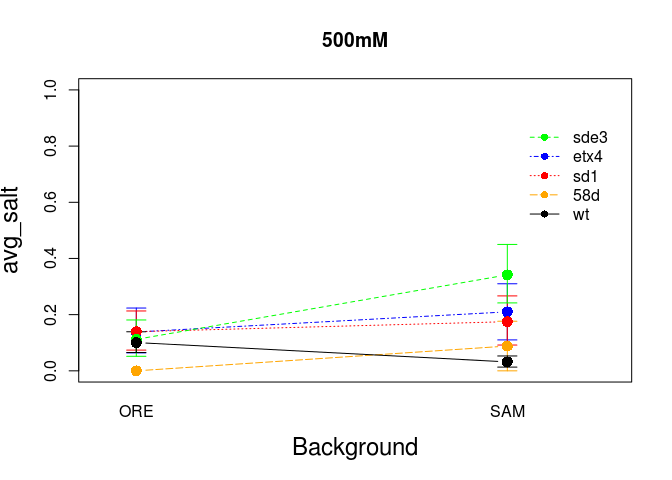
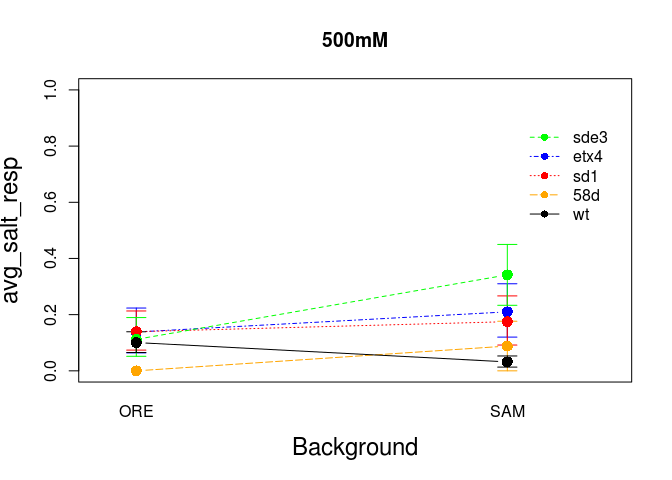
Added plots of tarsal responses to NaCl to my EDA markdown.

diff --git a/PERA_Exploratory_Data_Analysis_MF.md b/PERA_Exploratory_Data_Analysis_MF.md
@@ -133,15 +133,15 @@ CI.avg_h2o.NaCl
     ## 
     ## $sd1
     ##      2.5%     97.5% 
-    ## 0.1313131 0.2020202 
+    ## 0.1329966 0.2037037 
     ## 
     ## $sde3
     ##       2.5%      97.5% 
-    ## 0.08775029 0.14310954 
+    ## 0.08773557 0.14193168 
     ## 
     ## $wt
     ##       2.5%      97.5% 
-    ## 0.05361111 0.08138889
+    ## 0.05361111 0.08055556
 
 ``` r
 #Plot to view interactions between background and allele for water responses in NaCl assay
@@ -170,23 +170,23 @@ CI.avg_h2o.KCl
 
     ## $`58d`
     ##       2.5%      97.5% 
-    ## 0.01937984 0.06201550 
+    ## 0.01550388 0.06201550 
     ## 
     ## $etx4
     ##      2.5%     97.5% 
-    ## 0.1075758 0.1696970 
+    ## 0.1075758 0.1712121 
     ## 
     ## $sd1
     ##      2.5%     97.5% 
-    ## 0.1028369 0.1654846 
+    ## 0.1040189 0.1654846 
     ## 
     ## $sde3
     ##      2.5%     97.5% 
-    ## 0.1205674 0.1867612 
+    ## 0.1193853 0.1867612 
     ## 
     ## $wt
     ##       2.5%      97.5% 
-    ## 0.04381161 0.06389193
+    ## 0.04381161 0.06425703
 
 ``` r
 #Plot to view interactions between background and allele for water responses in KCl assay
@@ -216,24 +216,24 @@ CI.avg_sug.NaCl
 ```
 
     ## $`58d`
-    ##      2.5%     97.5% 
-    ## 0.2583333 0.4500000 
+    ##     2.5%    97.5% 
+    ## 0.258125 0.450000 
     ## 
     ## $etx4
     ##      2.5%     97.5% 
-    ## 0.3392070 0.4471916 
+    ## 0.3370044 0.4471366 
     ## 
     ## $sd1
     ##      2.5%     97.5% 
-    ## 0.5429293 0.6540404 
+    ## 0.5429293 0.6565657 
     ## 
     ## $sde3
     ##      2.5%     97.5% 
-    ## 0.5159011 0.6130742 
+    ## 0.5123675 0.6148410 
     ## 
     ## $wt
     ##      2.5%     97.5% 
-    ## 0.2933333 0.3566667
+    ## 0.2916667 0.3575000
 
 ``` r
 #Plot to view interactions between background and allele for sugar responses in NaCl assay
@@ -262,15 +262,15 @@ CI.avg_sug.KCl
 
     ## $`58d`
     ##      2.5%     97.5% 
-    ## 0.2674419 0.4418605 
+    ## 0.2732558 0.4418605 
     ## 
     ## $etx4
     ##      2.5%     97.5% 
-    ## 0.5727273 0.6818182 
+    ## 0.5727273 0.6795455 
     ## 
     ## $sd1
     ##      2.5%     97.5% 
-    ## 0.4698582 0.5691489 
+    ## 0.4698582 0.5709220 
     ## 
     ## $sde3
     ##      2.5%     97.5% 
@@ -278,7 +278,7 @@ CI.avg_sug.KCl
     ## 
     ## $wt
     ##      2.5%     97.5% 
-    ## 0.2940854 0.3466594
+    ## 0.2929901 0.3461117
 
 ``` r
 #Plot to view interactions between background and allele for sugar responses in KCl assay
@@ -308,20 +308,20 @@ CI.avg_salt.NaCl
 ```
 
     ## $`58d`
-    ##     2.5%    97.5% 
-    ## 0.083125 0.250000 
+    ##      2.5%     97.5% 
+    ## 0.0750000 0.2416667 
     ## 
     ## $etx4
     ##      2.5%     97.5% 
-    ## 0.2180617 0.3149780 
+    ## 0.2202643 0.3171806 
     ## 
     ## $sd1
     ##      2.5%     97.5% 
-    ## 0.3409091 0.4595960 
+    ## 0.3434343 0.4621212 
     ## 
     ## $sde3
     ##      2.5%     97.5% 
-    ## 0.3286219 0.4275618 
+    ## 0.3286219 0.4310954 
     ## 
     ## $wt
     ##      2.5%     97.5% 
@@ -358,19 +358,19 @@ CI.avg_salt.KCl
     ## 
     ## $etx4
     ##      2.5%     97.5% 
-    ## 0.2636364 0.3750000 
+    ## 0.2636364 0.3727273 
     ## 
     ## $sd1
     ##      2.5%     97.5% 
-    ## 0.1187943 0.1914894 
+    ## 0.1170213 0.1914894 
     ## 
     ## $sde3
     ##      2.5%     97.5% 
-    ## 0.2872340 0.3865248 
+    ## 0.2872340 0.3882979 
     ## 
     ## $wt
     ##       2.5%      97.5% 
-    ## 0.04600219 0.07064622
+    ## 0.04654984 0.07064622
 
 ``` r
 #Plot to view interactions between background and allele for salt responses in KCl assay
@@ -399,7 +399,7 @@ NaCl500 <- subset(probos_N, salt_conc == 500)
 
 #plotting salt responses
 lineplot.CI(Background, avg_salt, group = Allele, data = NaCl100, cex = 1.5, xlab = "Background", 
-            ylab = "avg_salt", ylim = c(0, 1), cex.lab = 1.5, 
+            ylab = "avg_salt_resp", ylim = c(0, 1), cex.lab = 1.5, 
             col = c("orange", "blue",  "red", "green", "black"), pch = c(16,16,16,16,16), main = "100mM",
             ci.fun= boot.fn)
 ```
@@ -408,7 +408,7 @@ lineplot.CI(Background, avg_salt, group = Allele, data = NaCl100, cex = 1.5, xla
 
 ``` r
 lineplot.CI(Background, avg_salt, group = Allele, data = NaCl500, cex = 1.5, xlab = "Background", 
-            ylab = "avg_salt", ylim = c(0, 1), cex.lab = 1.5, 
+            ylab = "avg_salt_resp", ylim = c(0, 1), cex.lab = 1.5, 
             col = c("orange", "blue",  "red", "green", "black"), pch = c(16,16,16,16,16), main = "500mM",
             ci.fun= boot.fn)
 ```
@@ -425,7 +425,7 @@ KCl100 <- subset(probos_K, salt_conc == 100)
 KCl500 <- subset(probos_K, salt_conc == 500)
 
 lineplot.CI(Background, avg_salt, group = Allele, data = KCl100, cex = 1.5, xlab = "Background", 
-            ylab = "avg_salt", ylim = c(0, 1), cex.lab = 1.5, 
+            ylab = "avg_salt_resp", ylim = c(0, 1), cex.lab = 1.5, 
             col = c("orange", "blue",  "red", "green", "black"), pch = c(16,16,16,16,16),
             main = "100mM",
             ci.fun= boot.fn)
@@ -435,7 +435,7 @@ lineplot.CI(Background, avg_salt, group = Allele, data = KCl100, cex = 1.5, xlab
 
 ``` r
 lineplot.CI(Background, avg_salt, group = Allele, data = KCl500, cex = 1.5, xlab = "Background", 
-            ylab = "avg_salt", ylim = c(0, 1), cex.lab = 1.5, 
+            ylab = "avg_salt_resp", ylim = c(0, 1), cex.lab = 1.5, 
             col = c("orange", "blue",  "red", "green", "black"), pch = c(16,16,16,16,16),
             main = "500mM",
             ci.fun= boot.fn)
@@ -461,31 +461,31 @@ NaCl_f <- subset(probos_N, Sex == "f")
 
 par(mfrow = c(3,2))
 lineplot.CI(Allele, avg_h2o, group = Background, data = NaCl_m, cex = 1.5, xlab = "Allele", 
-            ylab = "avg_water", ylim = c(0, 1), cex.lab = 1.5, 
+            ylab = "avg_water_resp", ylim = c(0, 1), cex.lab = 1.5, 
             col = c("blue",  "red"), pch = c(16,16,16,16,16),
             main = "Water Response by Males",
             ci.fun= boot.fn)
 
 lineplot.CI(Allele, avg_h2o, group = Background, data = NaCl_f, cex = 1.5, xlab = "Allele", 
-            ylab = "avg_water", ylim = c(0, 1), cex.lab = 1.5, 
+            ylab = "avg_water_resp", ylim = c(0, 1), cex.lab = 1.5, 
             col = c("blue",  "red"), pch = c(16,16,16,16,16),
             main = "Water Response by Females",
             ci.fun= boot.fn)
 
 lineplot.CI(Allele, avg_sugar, group = Background, data = NaCl_m, cex = 1.5, xlab = "Allele", 
-            ylab = "avg_sugar", ylim = c(0, 1), cex.lab = 1.5, 
+            ylab = "avg_sugar_resp", ylim = c(0, 1), cex.lab = 1.5, 
             col = c("blue",  "red"), pch = c(16,16,16,16,16),
             main = "Sugar Response by Males",
             ci.fun= boot.fn)
 
 lineplot.CI(Allele, avg_sugar, group = Background, data = NaCl_f, cex = 1.5, xlab = "Allele", 
-            ylab = "avg_sugar", ylim = c(0, 1), cex.lab = 1.5, 
+            ylab = "avg_sugar_resp", ylim = c(0, 1), cex.lab = 1.5, 
             col = c("blue",  "red"), pch = c(16,16,16,16,16),
             main = "Sugar Response by Females",
             ci.fun= boot.fn)
 
 lineplot.CI(Allele, avg_salt, group = Background, data = NaCl_m, cex = 1.5, xlab = "Allele", 
-            ylab = "avg_nacl", ylim = c(0, 1), cex.lab = 1.5, 
+            ylab = "avg_nacl_resp", ylim = c(0, 1), cex.lab = 1.5, 
             col = c("blue",  "red"), pch = c(16,16,16,16,16),
             main = "NaCl Response by Males",
             ci.fun= boot.fn)
@@ -497,7 +497,7 @@ lineplot.CI(Allele, avg_salt, group = Background, data = NaCl_m, cex = 1.5, xlab
 
 ``` r
 lineplot.CI(Allele, avg_salt, group = Background, data = NaCl_f, cex = 1.5, xlab = "Allele", 
-            ylab = "avg_nacl", ylim = c(0, 1), cex.lab = 1.5, 
+            ylab = "avg_nacl_resp", ylim = c(0, 1), cex.lab = 1.5, 
             col = c("blue",  "red"), pch = c(16,16,16,16,16),
             main = "NaCl Response by Females",
             ci.fun= boot.fn)
@@ -512,13 +512,13 @@ KCl_f <- subset(probos_K, Sex == "f")
 
 par(mfrow = c(3,2))
 lineplot.CI(Allele, avg_h2o, group = Background, data = KCl_m, cex = 1.5, xlab = "Allele", 
-            ylab = "avg_water", ylim = c(0, 1), cex.lab = 1.5, 
+            ylab = "avg_water_resp", ylim = c(0, 1), cex.lab = 1.5, 
             col = c("blue",  "red"), pch = c(16,16,16,16,16),
             main = "Water Response by Males",
             ci.fun= boot.fn)
 
 lineplot.CI(Allele, avg_h2o, group = Background, data = KCl_f, cex = 1.5, xlab = "Allele", 
-            ylab = "avg_water", ylim = c(0, 1), cex.lab = 1.5, 
+            ylab = "avg_water_resp", ylim = c(0, 1), cex.lab = 1.5, 
             col = c("blue",  "red"), pch = c(16,16,16,16,16),
             main = "Water Response by Females",
             ci.fun= boot.fn)
@@ -530,25 +530,25 @@ lineplot.CI(Allele, avg_h2o, group = Background, data = KCl_f, cex = 1.5, xlab =
 
 ``` r
 lineplot.CI(Allele, avg_sugar, group = Background, data = KCl_m, cex = 1.5, xlab = "Allele", 
-            ylab = "avg_sugar", ylim = c(0, 1), cex.lab = 1.5, 
+            ylab = "avg_sugar_resp", ylim = c(0, 1), cex.lab = 1.5, 
             col = c("blue",  "red"), pch = c(16,16,16,16,16),
             main = "Sugar Response by Males",
             ci.fun= boot.fn)
 
 lineplot.CI(Allele, avg_sugar, group = Background, data = KCl_f, cex = 1.5, xlab = "Allele", 
-            ylab = "avg_sugar", ylim = c(0, 1), cex.lab = 1.5, 
+            ylab = "avg_sugar_resp", ylim = c(0, 1), cex.lab = 1.5, 
             col = c("blue",  "red"), pch = c(16,16,16,16,16),
             main = "Sugar Response by Females",
             ci.fun= boot.fn)
 
 lineplot.CI(Allele, avg_salt, group = Background, data = KCl_m, cex = 1.5, xlab = "Allele", 
-            ylab = "avg_kcl", ylim = c(0, 1), cex.lab = 1.5, 
+            ylab = "avg_kcl_resp", ylim = c(0, 1), cex.lab = 1.5, 
             col = c("blue",  "red"), pch = c(16,16,16,16,16),
             main = "KCl Response by Males",
             ci.fun= boot.fn)
 
 lineplot.CI(Allele, avg_salt, group = Background, data = KCl_f, cex = 1.5, xlab = "Allele", 
-            ylab = "avg_kcl", ylim = c(0, 1), cex.lab = 1.5, 
+            ylab = "avg_kcl_resp", ylim = c(0, 1), cex.lab = 1.5, 
             col = c("blue",  "red"), pch = c(16,16,16,16,16),
             main = "KCl Response by Females",
             ci.fun= boot.fn)
@@ -556,7 +556,66 @@ lineplot.CI(Allele, avg_salt, group = Background, data = KCl_f, cex = 1.5, xlab 
 
 <img src="PERA_Exploratory_Data_Analysis_MF_files/figure-markdown_github/KCl_responses_by_sex_figs-1.png" style="display: block; margin: auto;" />
 
-Visualizing the effects of pressure changes on response rates
-=============================================================
+Tarsal responses to water, sugar and NaCl
+=========================================
 
-Note that the `echo = FALSE` parameter was added to the code chunk to prevent printing of the R code that generated the plot.
+We also collected data on the proboscis extension responses of D. melanogaster when the same tastants were applied to their tarsi. Response data were only collected in a single experiment where the aversive tastant was NaCl. For the sake of comparison, I have plotted them next to the responses from the experiment where NaCl was applied to the labellum.
+
+``` r
+#subsetting for tarsal data
+tars_N <- subset(NaCl_data_pres, receptor == "tars")  
+
+par(mfrow=c(3,2))
+
+lineplot.CI(Allele, avg_h2o, group = Background, data = tars_N, cex = 1.5, xlab = "Allele", 
+                     ylab = "avg_h2o_resp", ylim = c(0, 0.3), cex.lab = 1.5, 
+                     col = c("blue",  "red"), main = "Tarsal Responses to Water",
+                     pch = c(16,16,16,16,16),
+                     ci.fun= boot.fn)
+```
+
+    ## Warning in arrows(leg.vals$xvals[CI.seln], CI.plot[, 1], leg.vals
+    ## $xvals[CI.seln], : zero-length arrow is of indeterminate angle and so
+    ## skipped
+
+``` r
+lineplot.CI(Allele, avg_h2o, group = Background, data = probos_N, cex = 1.5, xlab = "Allele", 
+                     ylab = "avg_h2o_resp", ylim = c(0, 0.3), cex.lab = 1.5, 
+                     col = c("blue",  "red"), 
+                     pch = c(16,16,16,16,16), main = "Labellar Responses to Water",
+                     ci.fun= boot.fn)
+
+lineplot.CI(Allele, avg_sugar, group = Background, data = tars_N, cex = 1.5, xlab = "Allele", 
+                     ylab = "avg_sugar_resp", ylim = c(0, 1), cex.lab = 1.5, 
+                     col = c("blue",  "red"), main = "Tarsal Responses to Sugar",
+                     pch = c(16,16,16,16,16),
+                     ci.fun= boot.fn)
+
+lineplot.CI(Allele, avg_sugar, group = Background, data = probos_N, cex = 1.5, xlab = "Allele", 
+                     ylab = "avg_sugar_resp", ylim = c(0, 1), cex.lab = 1.5, 
+                     col = c("blue",  "red"), main = "Labellar Responses to Sugar",
+                     pch = c(16,16,16,16,16),
+                     ci.fun= boot.fn)
+
+lineplot.CI(Allele, avg_h2o, group = Background, data = tars_N, cex = 1.5, xlab = "Allele", 
+                     ylab = "avg_NaCl_resp", ylim = c(0, 0.3), cex.lab = 1.5, 
+                     col = c("blue",  "red"), main = "Tarsal Responses to NaCl",
+                     pch = c(16,16,16,16,16),
+                     ci.fun= boot.fn)
+```
+
+    ## Warning in arrows(leg.vals$xvals[CI.seln], CI.plot[, 1], leg.vals
+    ## $xvals[CI.seln], : zero-length arrow is of indeterminate angle and so
+    ## skipped
+
+``` r
+lineplot.CI(Allele, avg_h2o, group = Background, data = probos_N, cex = 1.5, xlab = "Allele", 
+                     ylab = "avg_NaCl_resp", ylim = c(0, 0.3), cex.lab = 1.5, 
+                     col = c("blue",  "red"), main = "Labellar Responses to NaCl",
+                     pch = c(16,16,16,16,16),
+                     ci.fun= boot.fn)
+```
+
+<img src="PERA_Exploratory_Data_Analysis_MF_files/figure-markdown_github/NaCl_tarsal_response_plots-1.png" style="display: block; margin: auto;" />
+
+These plots indicate that: 1) responses to all tastants were generally lower when tastants were applied to the tarsi, and 2) allelic trends seen in the responses by the labellar sensilla are not similar to those seen from tarsal sensilla.
